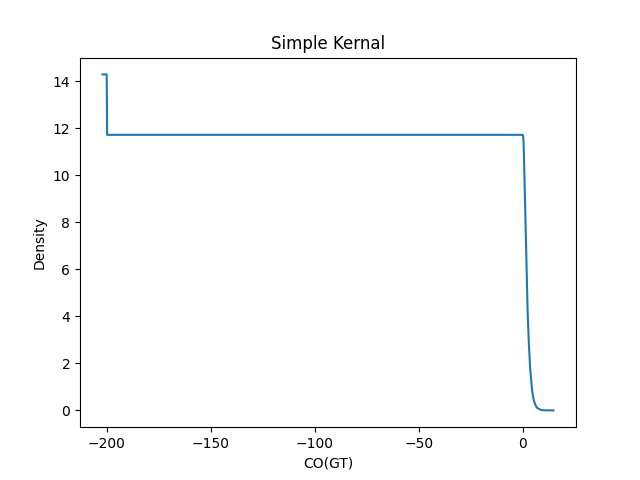
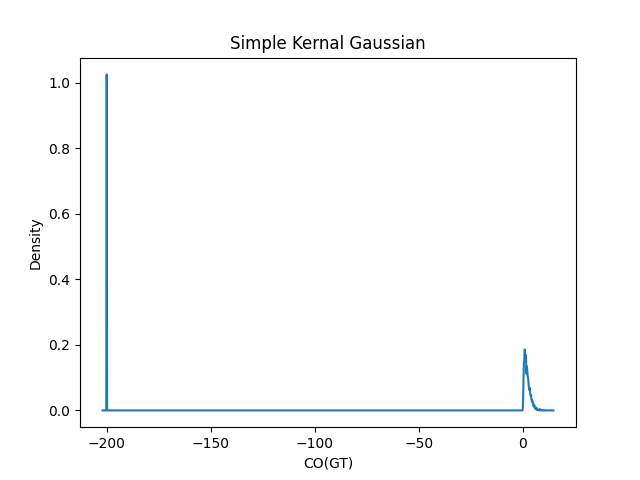
Gaussian Kernal Method Added

diff --git a/ML_HW1/HW1.py b/ML_HW1/HW1.py
@@ -24,6 +24,26 @@ qf = df#.sort_values(by=["CO(GT)", "Time"])
 #h = .07
 #user_x = 3
 
+
+def gaussian_kernal(h,user_x):
+	total_sum = 0
+	n = 1
+	for xn in zip(qf["CO(GT)"]):
+		total_sum += (np.exp(np.linalg.norm(user_x - xn[0])/(-2*h*h)))/((2*np.pi*h*h)**.5)
+		n += 1
+	n -= 1
+	return (total_sum/n)
+
+def k2(u):
+	if (u <= .3):
+		return .6
+	elif (u <= .6):
+		return .3
+	elif (u <= .8):
+		return .1
+	else:
+		return 0
+
 def k(u):
 	if (u <= .5):
 		# print("I'm 1")
@@ -37,7 +57,7 @@ def basic_kernal(h,user_x):
 	D = 1
 	n = 1
 	for xn in zip(qf["CO(GT)"]):
-		total_sum += (1/(h**D)) * k((user_x - xn[0])/h)
+		total_sum += (1/(h**D)) * k2((user_x - xn[0])/h)
 		n += 1
 	n -= 1
 	return (total_sum/n)
@@ -45,15 +65,23 @@ def basic_kernal(h,user_x):
 	#print(estimated_value)
 
 def set_kernal(user_x):
+	return gaussian_kernal(.07, user_x)
+def set_kernal2(user_x):
 	return basic_kernal(.07, user_x)
 
 vectorized_kernal = np.vectorize(set_kernal)
+vectorized_kernal2 = np.vectorize(set_kernal2)
 
 fig, ax = plt.subplots()
+fig2, ax2 =plt.subplots()
 # arrange is (Start, Stop, Incremental Change)
 x_axis = np.arange(-202.0,15.0,0.2)
 y_axis = vectorized_kernal(x_axis)
+y_axis2 = vectorized_kernal2(x_axis)
 ax.plot(x_axis,y_axis)
-ax.set(xlabel='CO(GT)', ylabel='Density', title='Simple Kernal')
+ax2.plot(x_axis,y_axis2)
+ax.set(xlabel='CO(GT)', ylabel='Density', title='Simple Kernal Gaussian')
+ax2.set(xlabel='CO(GT)', ylabel='Density', title='Simple Kernals Parzen Win')
+fig2.savefig("test2.png")
 fig.savefig("test.png")
 plt.show()
